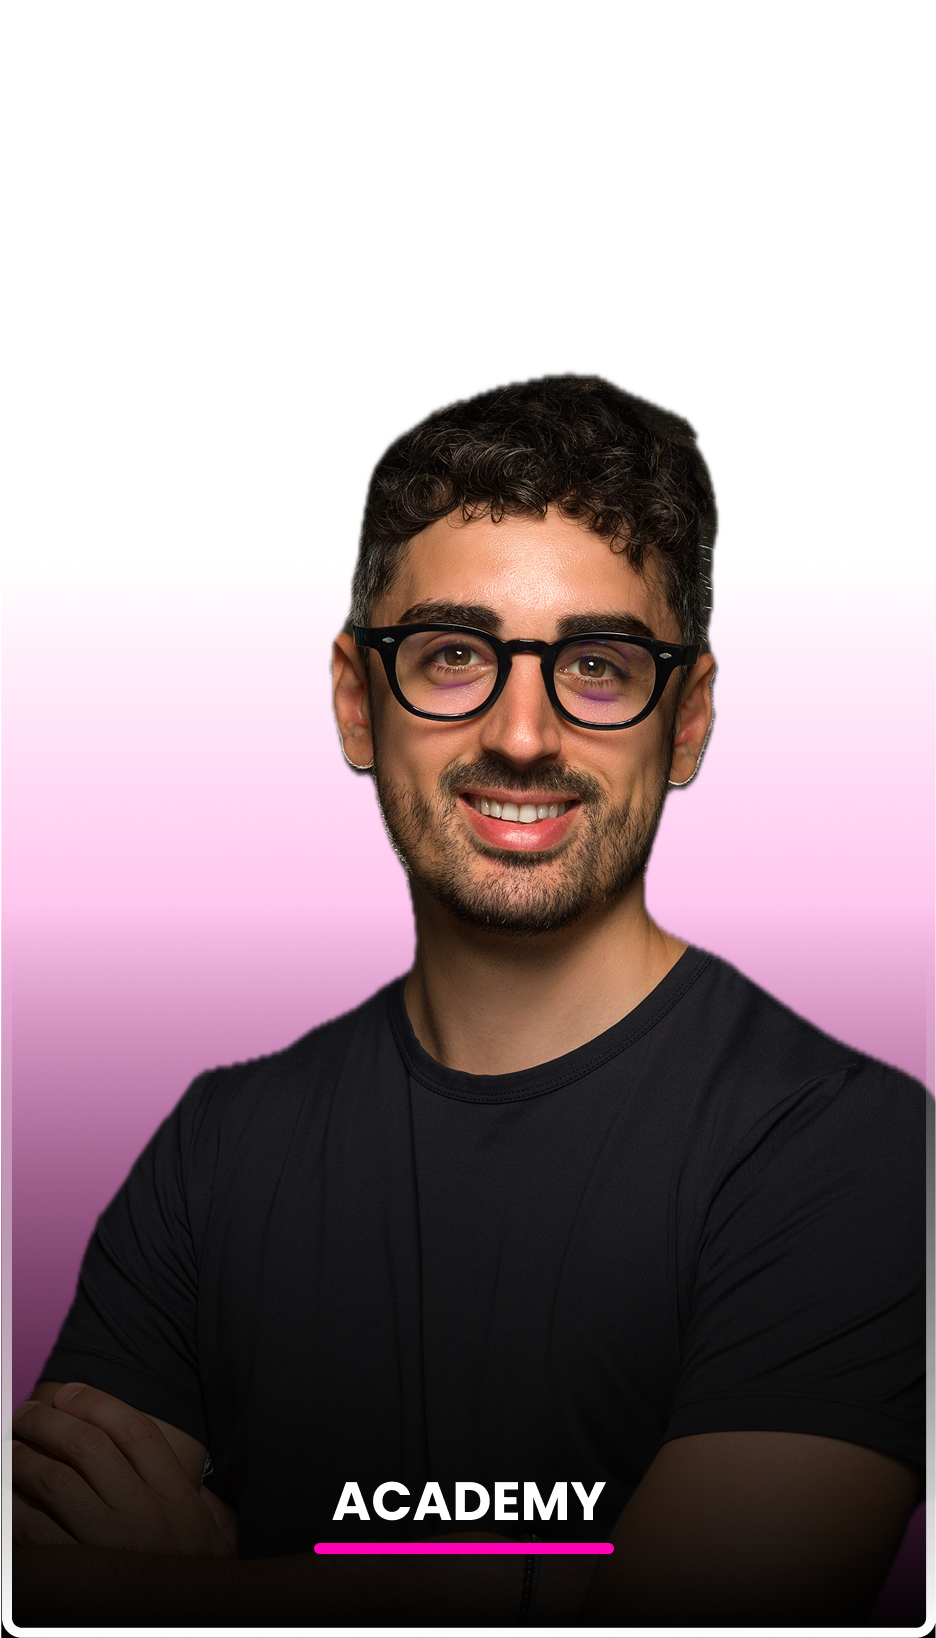
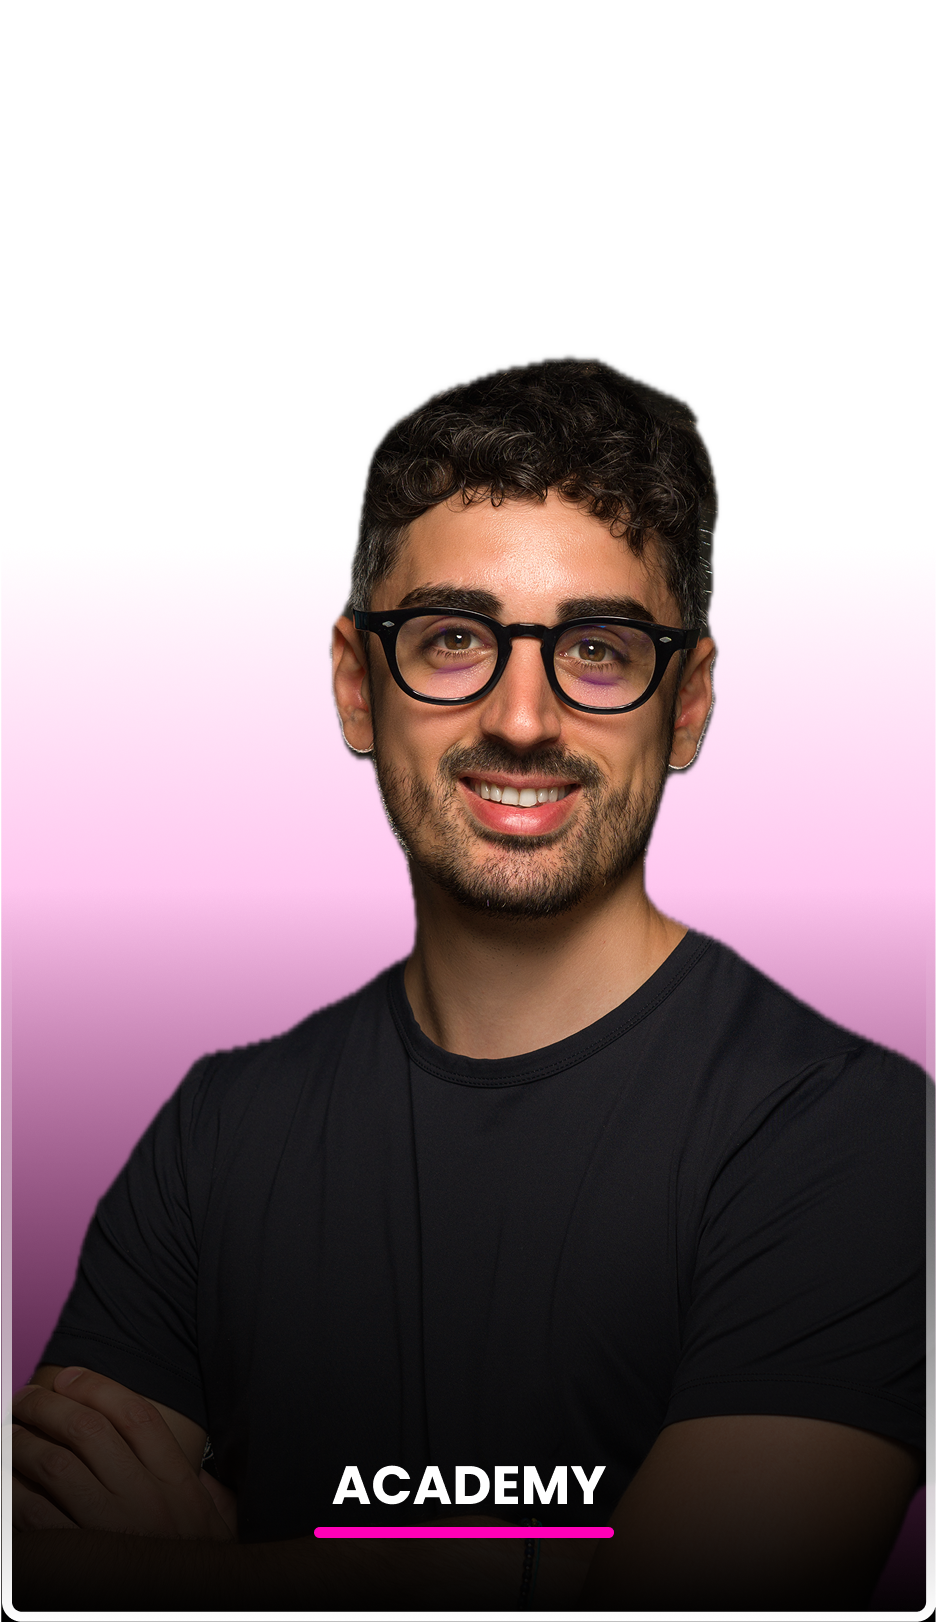
fix

diff --git a/src/style/style.css b/src/style/style.css
@@ -2,7 +2,7 @@
 
 
 body {
-  font-family: Arial, sans-serif;
+  font-family: "Poppins", Sans-serif;
   color: white;
   background: #0a0a0a;
   padding: 20px;
@@ -43,12 +43,12 @@ h1 {
 }
 
 .team-configurator {
-  font-family: Arial, sans-serif;
   color: white;
   padding: 20px;
   text-align: center;
   max-width: 100vw;
   overflow: hidden;
+  font-size: 12px;
 }
 
 .managers-grid {
